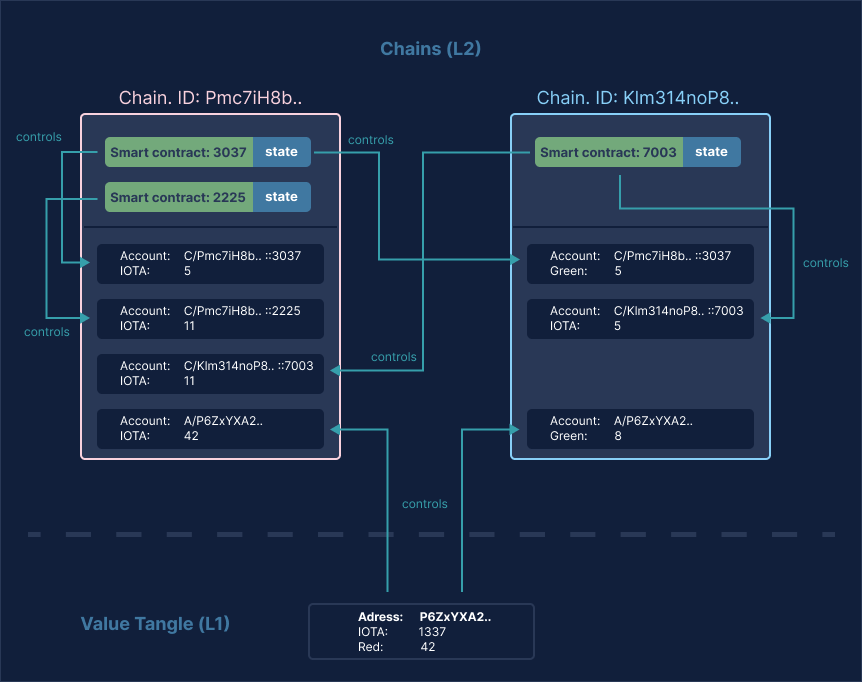
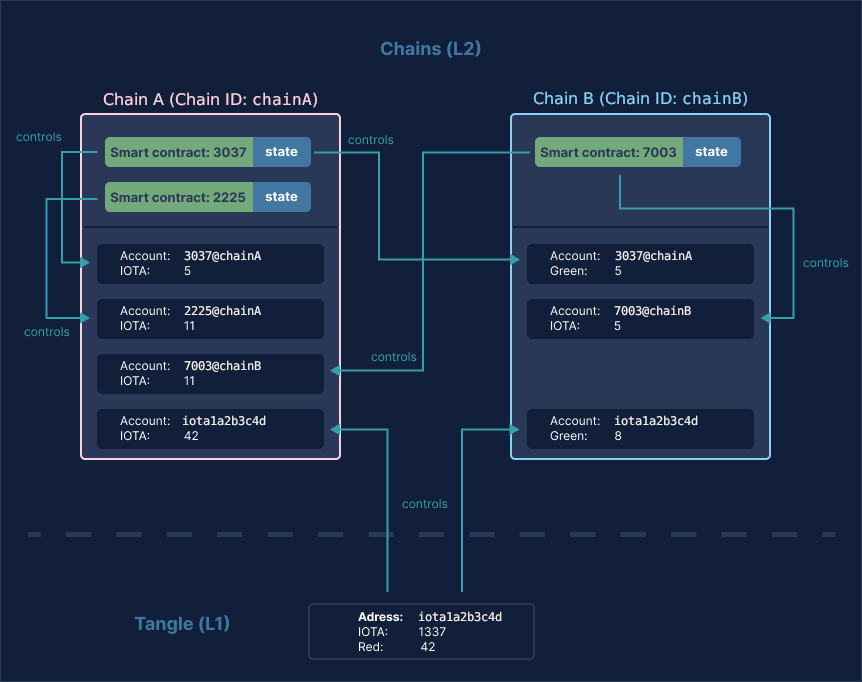
docs: update core concepts :: accounts

diff --git a/documentation/docs/guide/core_concepts/accounts/how-accounts-work.md b/documentation/docs/guide/core_concepts/accounts/how-accounts-work.md
@@ -11,138 +11,74 @@ keywords:
 
 # How Accounts Work
 
-IOTA Smart Contracts provide secure, trustless transfers of digitized assets:
+On the L1 Ledger, just like with any DLT, we have **trustless** and **atomic** transfers of assets between addresses on the ledger.
+Tokens controlled by an address can be moved to another address by providing a valid signature using the private key that controls the source address.
 
-- Between smart contracts on the same or different chains
-- Between smart contracts and L1 addresses on the UTXO Ledger
+In IOTA Smart Contracts, [each chain has a L1 address](../states#digital-assets-on-the-chain) (also known as the _Chain ID_) which enables it to control L1 assets (base tokens, native tokens and NFTs).
+The chain acts as a custodian of the L1 assets on behalf of different entities, thus providing a _L2 Ledger_.
 
-On the UTXO Ledger, just like with any DLT, we have **trustless** and **atomic**
-transfers of assets between addresses on the ledger. The tokens contained in the
-address can be moved to another address by providing a valid signature using the
-private key which controls the source address.
+The L2 ledger is a collection of _on-chain accounts_ (sometimes also called just _accounts_).
+L2 accounts can be owned by different kinds of entities, which are identified by a unique _Agent ID_.
+Thus, the L2 ledger is a mapping of Agent ID => balances of L2 assets.
 
-In IOTA Smart Contracts, the smart contracts which reside on chains are also owners of their
-tokens. Each smart contract can receive tokens that are transferred to it and
-can send tokens it controls to any other owner, be it another smart
-contract, or an ordinary L1 address on the UTXO Ledger.
+## Types of Accounts
 
-There are 2 types of entities that can control tokens:
+### L1 Address
 
-* L1 addresses on the UTXO Ledger
-* Smart contracts on IOTA Smart Contracts chains
+Any L1 address can be the owner of a L2 account.
[1 lines of base64/hex data omitted]
 
-There are 3 different types of trustless token transfers possible between those
-entities. Each type involves a different mechanism of transfer:
+Tokens in an address account can only be moved trhough a request signed by the private key of the L1 address.
 
-* Between L1 address and smart contract
-* Between smart contracts on the same chain
-* Between smart contracts on different chains
+### Smart Contract
 
-To make the system homogenous, we introduce the following two concepts:
+Any smart contract can be the owner of a L2 account. Recall that a smart
+contract is uniquely identified in a chain by a [_hname_](../smart-contract-anatomy#identifying-a-smart-contract).
+However, the hname is not enough to identify the account since it could be owned by a smart contract on another chain.
 
-* `Agent ID`: Represents an owner of tokens independently of the type of
-  owning entity.
-* `On-chain account`: Represents the unit of ownership on the chain.
+Thus, the Agent ID of a smart contract is composed as the contract hname plus the [_chain ID_](../states#digital-assets-on-the-chain), with syntax `<hname>@<chain-id>`. For example: `cebf5908@tgl1pzehtgythywhnhnz26s2vtpe2wy4y64pfcwkp9qvzhpwghzxhwkps2tk0nd`.
 
-Each IOTA Smart Contracts chain keeps a ledger of on-chain account balances
+Note that this allows trustless transfers of assets between smart contracts on the same or different chains.
 
-## Account Ownership
+Tokens in a smart contract account can only be moved by that smart contract.
 
-### Smart Contract ID
+### The Common Account
 
-Unlike with blockchain systems like Ethereum, we cannot simply represent the
-smart contract by a blockchain address: IOTA Smart Contracts can have many blockchains. 
-Each chain in IOTA Smart Contracts is identified by its _chain ID_. A chain can
-contain many smart contracts on it. So, in IOTA Smart Contracts, each contract is identified by
-an identifier that consists of the chain ID, and the _hname_ of the smart
-contract. In human-readable form, the smart _contract ID_ looks like this:
+The chain itself owns a unique L2 account, called the _common account_.
+The common account is controlled by the chain owner (defined in the chain root contract), and is used to store funds collected by fees, or sent to the chain L1 address.
 
-```
-cfQL3Vzay65ZZnPgsDKwXRRGwDWK68QkQwZqzvVs8UXM::cebf5908
-```
+The Agent ID of the common account is `<hname=0>@<chain-id>`. For example: `00000000@tgl1pzehtgythywhnhnz26s2vtpe2wy4y64pfcwkp9qvzhpwghzxhwkps2tk0nd`.
 
-The part before `::` is the _chain ID_, the part after `::` is the _hname_ of
-the smart contract.
+### Ethereum Address
 
-### Agent ID
+An L2 account can also be owned by an Ethereum address. See [EVM](../../evm/introduction) for more information.
+The Agent ID of an Ethereum address is just the address prefixed with `0x`, e.g. `0xd36722adec3edcb29c8e7b5a47f352d701393462`.
 
-The agent ID is an identifier that generalizes and represents one of the two
-agent types in one identifier: either an L1 address on the UTXO Ledger or a
-smart contract ID.
-
-It is easy to determine which one is represented by the particular agent ID: an
-L1 address always has the _hname_ part all zero.
-
-### Different Types of Account
-
-Given that an on-chain account is identified by an AgentID:
-
-- The AgentID for accounts owned by L1 entities (regular IOTA wallets) looks like:
-
-```yaml
-Hname: 0
-Address: "some address"
-```
-
-- The AgentID for accounts owned by L2 entities (Smart Contracts):
-
-```yaml
-Hname: "Hname of the entity"
-Address: "Address of the chain where the entity exists"
-```
-
-For example, the smart contract with hname `123` that exists on the chain with address `000`, can be identified on **any** chain by the following AgentID:
-
-```yaml
-Hname: 123
-Address: 000
-```
+Tokens in an Ethereum account can only be moved by sending an Ethereum transaction signed by the same address.
 
 ## The Accounts Contract
 
-The `Accounts` contract manages which funds are owned by which accounts.
-
-Internally there is a mapping of `Account (AgentID)` to `balances`, which can include normal IOTAs and/or any colored tokens.
-
+The [`accounts` core contract](../core_contracts/accounts) is responsible for managing the L2 ledger.
 By calling this contract it is possible to:
 
 - [View current account balances](./view-account-balances.mdx)
 - [Deposit funds to the chain](./how-to-deposit-to-a-chain.mdx)
 - [Withdraw funds from the chain](./how-to-withdraw-from-a-chain.mdx)
-- [Harvest](./the-common-account.mdx) - can only be called by the chain owner, to move funds from the chain common account to his account.
+- [Harvest](./the-common-account.mdx) - can only be called by the chain owner, to move funds from the chain common account to their account.
 
-## Interoperability Between Chains
+## Example
 
-Each chain contains any number of accounts. Each account owns colored
-tokens: a collection of `color: balance` pairs.
-
-Each account on the chain is controlled by some `agent ID`. It means that tokens
-contained in the account can only be moved by the entity behind that agent ID:
-
-* If the _agent ID_ represents an address on the UTXO Ledger, the tokens can
-  only be moved by a request signed by the private key of that address.
-* If the _agent ID_ represents a smart contract, the tokens can only be moved by
-  that smart contract. Note that the smart contract may reside on the same chain
-  or another chain.
+The following diagram illustrates an example situation.
+We are shortening the IDs and hnames for simplicity.
 
 [![Example situation. There are two chains deployed, with three smart contracts and one address.](/img/tutorial/accounts.png)](/img/tutorial/accounts.png)
 
-The picture illustrates an example situation. There are two chains deployed,
-with respective IDs `Pmc7iH8b..` and `Klm314noP8..`. The pink chain `Pmc7iH8b..`
-has two smart contracts on it (`3037` and `2225`) and the blue chain
-`Klm314noP8..` has one smart contract (`7003`).
+There are two chains deployed, with respective IDs `chainA` and `chainB`.
+Chain A has two smart contracts on it (with hnames `3037` and `2225`) and chain B has one smart contract (`7003`).
 
-The UTXO Ledger has 1 address `P6ZxYXA2..`. The address `P6ZxYXA2..` controls
-1337 iotas and 42 red tokens on the UTXO Ledger. The same address also controls
-42 iotas on the pink chain and 8 green tokens on the blue chain. So, the owner
-of the private key behind the address controls 3 different accounts: 1 on the L1
-UTXO Ledger and 2 accounts on 2 different chains on L2.
+There is also an address on the L1 Ledger: `iota1a2b3c4d`.
+This address controls 1337 iotas and 42 `Red` native tokens on the L1 Ledger.
+The same address also controls 42 iotas on the chain A and 8 `Green` native tokens on chain B.
+So, the owner of the private key behind the address controls 3 different accounts: the L1 account and one L2 account on each chain.
 
-At the same time, smart contract `7003` on the blue chain has 5 iotas on its
-native chain and controls 11 iotas on the pink chain.
-
-Note that “control over account” means the entity which has the private key can
-move funds from it. For an ordinary address, it means the private key of the
-address. For a smart contract, it means the private keys of the committee which
-runs the chain (the smart contract program can only be executed with those
-private keys).
+Smart contract `7003@chainB` has 5 iotas on its native chain and controls 11 iotas on chain A.

diff --git a/documentation/docs/guide/evm/introduction.md b/documentation/docs/guide/evm/introduction.md
@@ -18,7 +18,8 @@ around EVM/Solidity a familiar alternative.
 
 ### What is EVM/Solidity
 
-[EVM](https://ethereum.org/en/developers/docs/evm/) stands for "Ethereum Virtual Machine", which currently is the tried and proven virtual machine running most smart contract implementations. [Solidity](https://soliditylang.org/) is the programming language of choice with EVM, and has been created for this specific purpose.
+[EVM](https://ethereum.org/en/developers/docs/evm/) stands for "Ethereum Virtual Machine", and is currently the tried and proven virtual machine running most smart contract implementations.
+[Solidity](https://soliditylang.org/) is the programming language of choice with EVM, being created for this specific purpose.
 
 The main benefit of using EVM/Solidity right now is the sheer amount of resources available from it from years of development and experimentation on Ethereum. There are many articles, tutorials, examples and tools available for EVM/Solidity, and the IOTA Smart Contracts implementation is fully compatible with them. If you have experience developing on other EVM based chains you will feel right at home, and any existing contracts you've written will probably need no (or very minimal) changes to function on IOTA Smart Contracts as well.
 
